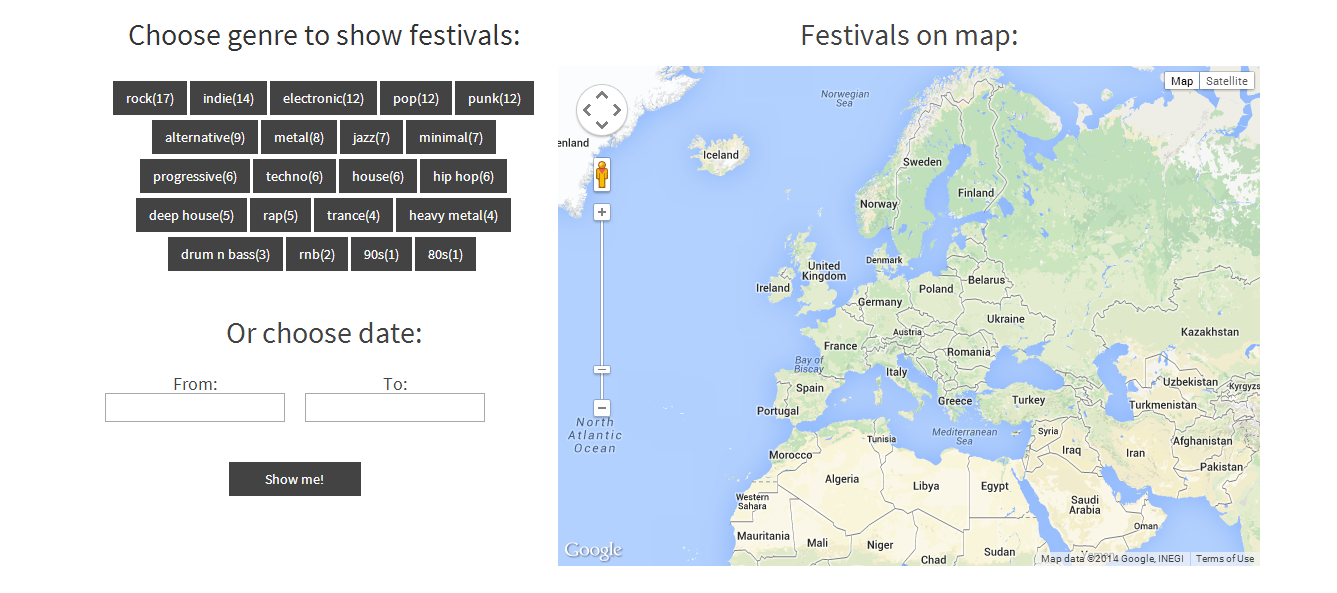
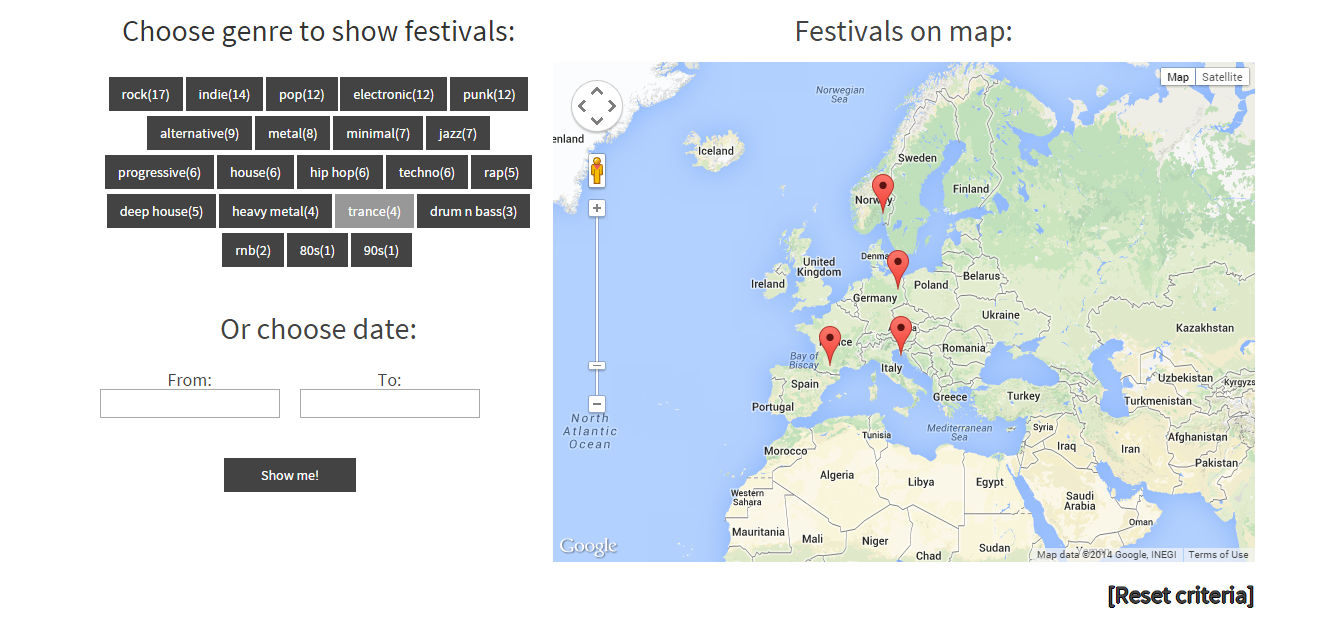
all finished

diff --git a/WebContent/js/getData.js b/WebContent/js/getData.js
@@ -2,27 +2,33 @@ var google_map;
 var info_window;
 var mapOptions;
 var festivals;
-var prevClickedLink;
 var firstClick = true;
+var selectedGenres = '';
+var generatedMarkers = new Array();
 
 function changeLinkColor(id) {
 	var links = document.getElementsByTagName('a');
-	//console.log(links);
 	var selectedLink = '';
-	
+
 	for (var i = 0; i < links.length; i++) {
-		if (links[i].id==id) {
+		if (links[i].id == id) {
 			selectedLink = document.getElementById(links[i].id);
-			selectedLink.style.backgroundColor = 'rgba(0, 0, 0, 0.4)';		
+			selectedLink.style.backgroundColor = 'rgba(0, 0, 0, 0.4)';
 		}
 	}
-	
+}
+
+function resetCriteria() {
+	var links = document.getElementsByTagName('a');
 	for (var i = 0; i < links.length; i++) {
-		if (links[i].className == 'btn-genre' && links[i].id != id) {
+		if (links[i].className == 'btn-genre') {
 			links[i].style.backgroundColor = '#424342';
 		}
 	}
-
+	selectedGenres = '';
+	document.getElementById('datepicker1').value = '';
+	document.getElementById('datepicker2').value = '';
+	initialize();
 }
 
 function addItem(json) {
@@ -39,8 +45,7 @@ function addItem(json) {
 			if (mostPopularGenres[g] == genres[i].title) {
 				div.innerHTML = div.innerHTML + '       '
 						+ '<a href="#map" class="btn-genre" id="'
-						+ genres[i].title
-						+ '" onclick="getFestivalsWithGenre(id);">'
+						+ genres[i].title + '" onclick="selectGenre(id);">'
 						+ genres[i].title + '(' + genres[i].numOfFestWithGenre
 						+ ")</a>";
 
@@ -71,52 +76,60 @@ function initialize() {
 }
 google.maps.event.addDomListener(window, 'load', initialize);
 
-function getFestivalsWithDate() {
+function getFestivals() {
+	initialize();
 	var dateFrom = document.getElementById('datepicker1').value;
 	var dateTo = document.getElementById('datepicker2').value;
-	if (dateFrom == '') {
-		alert("You must set date from!");
+	if (selectedGenres == '' && dateFrom == '' && dateTo == '') {
+		alert("You must choose at least one criteria!");
 		return;
 	}
-	if (dateTo == '') {
-		alert("You must set date to!");
+	if ((dateFrom != '' && dateTo == '') || (dateFrom == '' && dateTo != '')) {
+		alert("You must set both values for interval!");
 		return;
 	}
-	var json = new Array();
-	json = getData("festivals?genre=&dateFrom=" + dateFrom + "&dateTo="
-			+ dateTo);
-	if (json.length > 0) {
-		setupMap(JSON.stringify(json));
-		var links = document.getElementsByTagName('a');
-		for (var i = 0; i < links.length; i++) {
-			if (links[i].className == 'btn-genre') {
-				links[i].style.backgroundColor = '#424342';
-			}
+	if (dateFrom != '' && dateTo != '' && selectedGenres != '') {
+		var json = new Array();
+		json = getData("festivals?genre=" + selectedGenres + "&dateFrom="
+				+ dateFrom + "&dateTo=" + dateTo);
+		if (json.length > 0) {
+			setupMap(JSON.stringify(json));
+		} else {
+			alert("There are no festivals in this interval and with selected genres!");
+			initialize();
 		}
-		document.getElementById('datepicker1').value = '';
-		document.getElementById('datepicker2').value = '';
-	} else {
-		alert("There are no festivals in this interval");
-		initialize();
-		document.getElementById('datepicker1').value = '';
-		document.getElementById('datepicker2').value = '';
-		
 	}
+	if (dateFrom != '' && dateTo != '' && selectedGenres == '') {
+		var json = new Array();
+		json = getData("festivals?genre=&dateFrom=" + dateFrom + "&dateTo="
+				+ dateTo);
+		if (json.length > 0) {
+			setupMap(JSON.stringify(json));
 
+		} else {
+			alert("There are no festivals in this interval!");
+			initialize();
+		}
+	}
+	if (dateFrom == '' && dateTo == '' && selectedGenres != '') {
+		var json = new Array();
+		json = getData("festivals?genre=" + selectedGenres
+				+ "&?dateFrom=&dateTo=");
+		if (json.length > 0) {
+			setupMap(JSON.stringify(json));
+		}
+
+	}
 }
 
 function setupMap(json) {
-
-	mapOptions = {
-		zoom : 3,
-		center : new google.maps.LatLng(50.086161, 14.411519999999996),
-		mapTypeId : google.maps.MapTypeId.ROADMAP
-	};
-	google_map = new google.maps.Map(document.getElementById('map-canvas'),
-			mapOptions);
-	info_window = new google.maps.InfoWindow({
-		content : 'loading'
-	});
+	/*
+	 * mapOptions = { zoom : 3, center : new google.maps.LatLng(50.086161,
+	 * 14.411519999999996), mapTypeId : google.maps.MapTypeId.ROADMAP };
+	 * google_map = new google.maps.Map(document.getElementById('map-canvas'),
+	 * mapOptions); info_window = new google.maps.InfoWindow({ content :
+	 * 'loading' });
+	 */
 
 	festivals = JSON.parse(json);
 
@@ -130,29 +143,27 @@ function setupMap(json) {
 	var l = [];
 	for (var j = 0; j < festivals.length; j++) {
 		var locationName = festivals[j].location.locationName;
-		if (location != 'Unknown' && location != '') {
-			l.push(locationName);
-			var lineup = [];
-			var lineupJSON = JSON.parse(JSON.stringify(festivals[j].lineup));
-			lineupJSON.forEach(function(artist) {
-				var artistWithGenres = artist.artistName.toUpperCase();
-				lineup.push(artistWithGenres);
-			});
-			f.push(lineup);
-			var start = festivals[j].interval.start;
-			d1.push(start);
-			var end = festivals[j].interval.end;
-			d2.push(end);
-			var festivalName = festivals[j].festivalName;
+		l.push(locationName);
+		var lineup = [];
+		var lineupJSON = JSON.parse(JSON.stringify(festivals[j].lineup));
+		lineupJSON.forEach(function(artist) {
+			var artistWithGenres = artist.artistName.toUpperCase();
+			lineup.push(artistWithGenres);
+		});
+		f.push(lineup);
+		var start = festivals[j].interval.start;
+		d1.push(start);
+		var end = festivals[j].interval.end;
+		d2.push(end);
+		var festivalName = festivals[j].festivalName;
 
-			t.push(festivalName);
-			var lat = festivals[j].location.lat;
-			x.push(lat);
-			var lng = festivals[j].location.lng;
-			y.push(lng);
-			h.push('<p><strong>' + festivalName + '</strong></br>Location: '
-					+ locationName + '</p>');
-		}
+		t.push(festivalName);
+		var lat = festivals[j].location.lat;
+		x.push(lat);
+		var lng = festivals[j].location.lng;
+		y.push(lng);
+		h.push('<p><strong>' + festivalName + '</strong></br>Location: '
+				+ locationName + '</p>');
 
 	}
 	var index = 0;
@@ -206,11 +217,12 @@ function setupMap(json) {
 	}
 }
 
-function getFestivalsWithGenre(selectValue) {
-	var json = getData("festivals?genre=" + selectValue + "&?dateFrom=&dateTo=" );
-	console.log(JSON.stringify(json));
-	setupMap(JSON.stringify(json));
+function selectGenre(selectValue) {
+	// var json = getData("festivals?genre=" + selectValue +
+	// "&?dateFrom=&dateTo=" );
+	// setupMap(JSON.stringify(json));
+	selectedGenres += selectValue + ',';
 	changeLinkColor(selectValue);
-	document.getElementById('datepicker1').value = '';
-	document.getElementById('datepicker2').value = '';
+	// document.getElementById('datepicker1').value = '';
+	// document.getElementById('datepicker2').value = '';
 }

diff --git a/WebContent/index.html b/WebContent/index.html
@@ -64,12 +64,13 @@
 							</h4>
 						</div>
 						</br> </br> <a href="#map" class="btn btn-dark btn-genre" id="showMe"
-							onclick="getFestivalsWithDate()">Show me!</a>
+							onclick="getFestivals()">Show me!</a>
 					</div>
 				</div>
 				<div class="googleMap">
 					<h2 id="mapH2">Festivals on map:</h2>
 					<div id="map-canvas"></div>
+					<h3><a class="reset" href="#map" onclick="resetCriteria()">[Reset criteria]</a></h3>
 				</div>
 			</div>
 

diff --git a/WebContent/css/style.css b/WebContent/css/style.css
@@ -3,6 +3,18 @@ h3 {
 	text-shadow: -1px 0 black, 0 1px black, 1px 0 black, 0 -1px gray;
 }
 
+.reset{
+	color : #424342;
+	float: right;
+}
+
+.reset:hover,
+.reset:focus,
+.reset:active{
+	color: rgba(0, 0, 0, 0.4);
+	text-decoration: none;
+}
+
 #datePickerH4 {
 	color: #424342;
 	float: left;

diff --git a/src/rs/fon/is/festivals/services/FestivalServiceImpl.java b/src/rs/fon/is/festivals/services/FestivalServiceImpl.java
@@ -35,15 +35,20 @@ public class FestivalServiceImpl implements FestivalService {
 		
 
 		
-		if (!genre.equals("")) {
-			query.append(" \t?festival rdf:type mo:Festival;\n");
-			query.append("	\tmo:genre ?genre .\n");
-			query.append("\t?genre a mo:Genre ;\n");
-			query.append("	\tdc:title ?genreName .\n");
-			query.append("\tFILTER regex(?genreName,\"" + genre + "\")\n");
+		if (!genre.isEmpty() && dateFrom.isEmpty() && dateTo.isEmpty()) {
+			
+			String[] genres = genre.split(",");
+			for (int i = 0; i < genres.length; i++) {
+				query.append(" \t?festival rdf:type mo:Festival;\n");
+				query.append("	\tmo:genre ?genre"+i+" .\n");
+				query.append("\t?genre"+i+" a mo:Genre ;\n");
+				query.append("	\tdc:title ?genreName"+i+" .\n");
+				query.append("\tFILTER regex(?genreName"+i+",\"" + genres[i] + "\")\n");
+			}
 			query.append("}");
+			System.out.println(query);
 		}
-		if (!dateFrom.equals("") && !dateTo.equals("")) {
+		if (!dateFrom.isEmpty() && !dateTo.isEmpty() && genre.isEmpty()) {
 			query.append(" \t?festival rdf:type mo:Festival;\n");
 			query.append("\tevent:time ?interval .\n");
 			query.append("\t?interval a tl:Interval ;\n");
@@ -54,6 +59,28 @@ public class FestivalServiceImpl implements FestivalService {
 			String tdbDateFrom = splitedDateFrom[2]+"-"+splitedDateFrom[0]+"-"+splitedDateFrom[1]+"T22:00:00Z";
 			String tdbDateTo = splitedDateTo[2]+"-"+splitedDateTo[0]+"-"+splitedDateTo[1]+"T22:00:00Z";
 			query.append("\tFILTER(?start >= \"" + tdbDateFrom + "\"^^xsd:dateTime && ?end <= \"" + tdbDateTo + "\"^^xsd:dateTime)\n");
+			query.append("}");
+			System.out.println(query);
+		}
+		
+		if (!dateFrom.isEmpty() && !dateTo.isEmpty() && !genre.isEmpty()) {
+			query.append(" \t?festival rdf:type mo:Festival;\n");
+			query.append("\tevent:time ?interval ;\n");
+			query.append("	\ttl:start ?start ;\n");
+			query.append("	\ttl:end ?end .\n");
+			String[] genres = genre.split(",");
+			for (int i = 0; i < genres.length; i++) {
+				query.append(" \t?festival rdf:type mo:Festival;\n");
+				query.append("	\tmo:genre ?genre"+i+" ;\n");
+				query.append("\t?genre"+i+" a mo:Genre ;\n");
+				query.append("	\tdc:title ?genreName"+i+" .\n");
+				query.append("\tFILTER regex(?genreName"+i+",\"" + genres[i] + "\")\n");
+			}
+			String[] splitedDateFrom = dateFrom.split("/");
+			String[] splitedDateTo = dateTo.split("/");
+			String tdbDateFrom = splitedDateFrom[2]+"-"+splitedDateFrom[0]+"-"+splitedDateFrom[1]+"T22:00:00Z";
+			String tdbDateTo = splitedDateTo[2]+"-"+splitedDateTo[0]+"-"+splitedDateTo[1]+"T22:00:00Z";
+			query.append("\tFILTER(?start >= \"" + tdbDateFrom + "\"^^xsd:dateTime && ?end <= \"" + tdbDateTo + "\"^^xsd:dateTime)\n");		
 			query.append("}");
 			System.out.println(query);
 		}

diff --git a/src/rs/fon/is/festivals/parser/FestivalParser.java b/src/rs/fon/is/festivals/parser/FestivalParser.java
@@ -146,6 +146,9 @@ public class FestivalParser {
 		try {
 			Venue venue = event.getVenue();
 			String city = venue.getCity();
+			if (city == null || city.isEmpty()) {
+				throw new Exception();
+			}
 			double[] latlng = getLatAndLng(city);
 			Location location = new Location(city, latlng[0], latlng[1]);
 			location.setUri(URIGenerator.generate(location));
